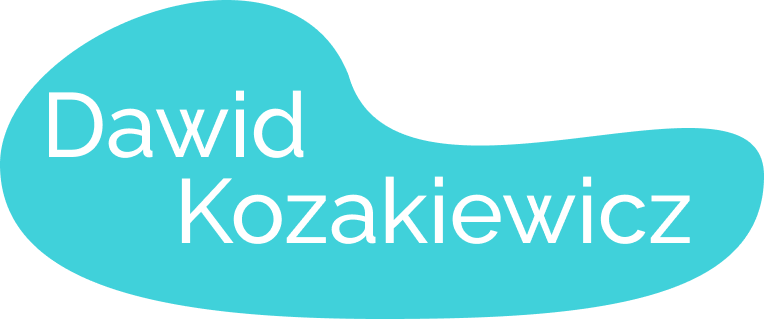
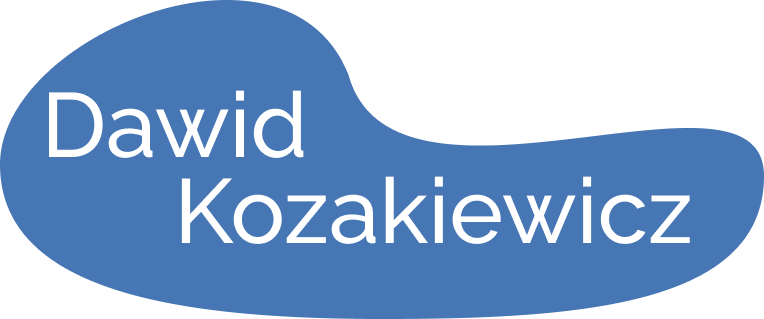
changing background size

diff --git a/charity-theme/index.html b/charity-theme/index.html
@@ -21,7 +21,7 @@
         <header class="header">
             <div class="header__top">
                 <a class="header__logo" href="#">
-                    <img src="images/logo.png" alt="Open Charity">
+                    <img src="images/Vector.png" alt="Open Charity">
                 </a>
                 <nav class="header__nav">
                     <ul>
@@ -46,18 +46,7 @@
                 </h4>
             </div>
         </header>
-        <div class="full-container">
-            <div class="event">
-                <div class="event__next">
-                    <span class="event__next-event">Next Event:</span>
-                    <a href="" class="event__timing">June 23<sup>rd</sup> 2016 18:30-21:00</a>
-                    <p class="event__details">Cancer Research UK, Angel Building, 407 St John Street, London EC1V 4AD </p>
-                </div>
-                <div class="event__register">
-                    <a href="#" class="event__btn">Register</a>
-                </div>
-            </div>   
-        </div>
+       
          <img src="images/rashedul.jpg" style="display:none" class="collaborate__logo collaborate__logo--spacing" alt="Rashedul">
         <div class="collaborate clearfix">
             <h2 class="block-title">Get Involved</h2>

diff --git a/charity-theme/css/main.css b/charity-theme/css/main.css
@@ -1,3 +1,4 @@
+@import url("https://fonts.googleapis.com/css2?family=Raleway:wght@600&display=swap");
 .full-container {
   background: #f1f2f5;
 }
@@ -30,7 +31,7 @@
   margin: 0 auto;
 }
 .header__logo {
-  margin-top: 30px;
+  margin-top: 7px;
   display: inline-block;
 }
 .header__logo img {
@@ -56,12 +57,13 @@
   padding: 8px 25px;
 }
 .header__banner {
-  background-image: url("../images/Vector.png");
+  background-image: url("../images/Blob-Background.png");
   background-repeat: no-repeat;
   background-attachment: fixed;
+  background-size: contain;
   color: black;
   text-align: center;
-  background-position: center;
+  border: 1px solid black;
 }
 .header__title {
   font-size: 55px;
@@ -344,7 +346,9 @@ html {
 }
 
 body {
-  font-family: "Open Sans", sans-serif;
+  font-family: "Raleway", sans-serif;
+  max-width: 1440px;
+  margin: 0 auto;
 }
 
 a {

diff --git a/charity-theme/scss/_style.scss b/charity-theme/scss/_style.scss
@@ -32,7 +32,7 @@
     margin: 0 auto;
   }
   &__logo {
-    margin-top: 30px;
+    margin-top: 7px;
     display: inline-block;
     img {
       width: 150px;
@@ -58,13 +58,14 @@
     }
   }
   &__banner {
-    background-image: url("../images/Vector.png");
+    background-image: url("../images/Blob-Background.png");
     background-repeat: no-repeat;
     background-attachment: fixed;
-    // box-shadow: inset 0 0 0 1000px rgba(0, 0, 0, 0.5);
+    background-size: contain;
     color: black;
     text-align: center;
-	background-position: center;
+    // background-position: 50% 50%;
+    border: 1px solid black;
   }
   &__title {
     font-size: 55px;

diff --git a/charity-theme/scss/_common.scss b/charity-theme/scss/_common.scss
@@ -1,3 +1,5 @@
+@import url('https://fonts.googleapis.com/css2?family=Raleway:wght@600&display=swap');
+
 * {
   box-sizing: border-box;
   margin: 0;
@@ -12,7 +14,9 @@ html {
   box-sizing: inherit;
 }
 body{
-	font-family: 'Open Sans', sans-serif;
+  font-family: 'Raleway', sans-serif;
+  max-width: 1440px;
+  margin: 0 auto;
 }
 
 a{
